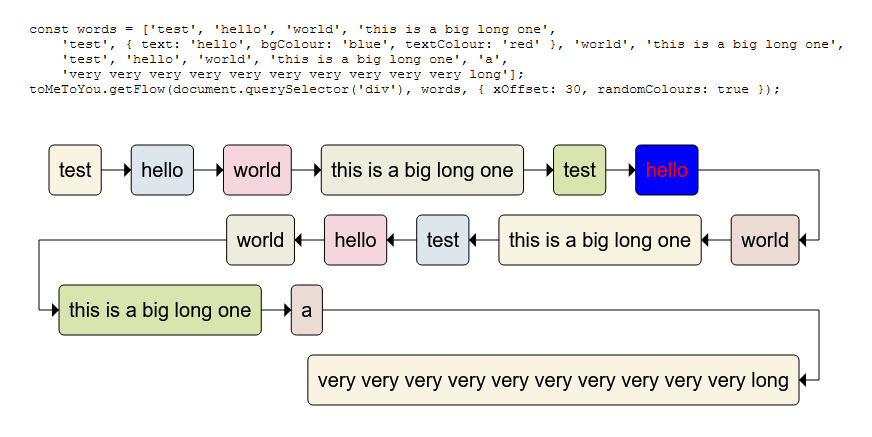
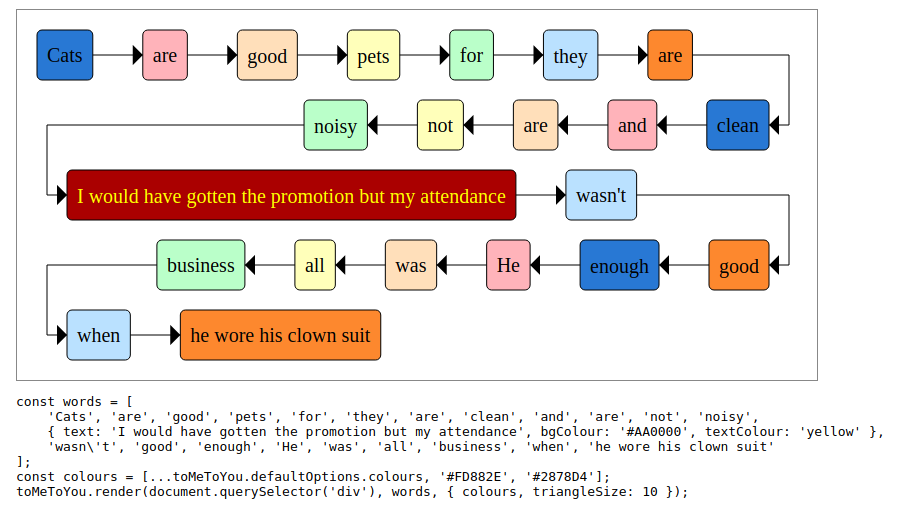
use nicer colours, update readme img

diff --git a/dist/bundle.js b/dist/bundle.js
@@ -5,12 +5,12 @@ const defaultOptions = {
     xOffset: 50, // space between boxes
     boxHeight: 30,
     radius: 5, // box border-radius
-    colours: ['#ebdbd4', '#f9f4e1', '#dee6ed', '#f6d6de', '#edecdd', '#d9e5ae'],
+    colours: ['#ffb3ba', '#ffdfba', '#ffffba', '#baffc9', '#bae1ff'],
     triangleSize: 7,
     leadingEdgeSize: 20, // how far out the new-line edge sticks
 };
 
-const getFlow = (container, items, opts = {}) => {
+const render = (container, items, opts = {}) => {
     if (!Array.isArray(items) || !items.length) {
         throw new Error('items needs to be an array of strings or objects');
     }
@@ -98,6 +98,8 @@ const getFlow = (container, items, opts = {}) => {
         }
     );
     drawArrows(entities, svg, { triangleSize, leadingEdgeSize });
+    const lastBox = entities.slice(-1)[0].rect.getBBox();
+    svg.setAttribute('height', lastBox.y + lastBox.height + margin);
     container.appendChild(svg);
     offscreen.remove();
 }
@@ -202,7 +204,8 @@ const getOffscreen = () => {
 };
 
 module.exports = {
-    getFlow
+    defaultOptions,
+    render
 };
 
 },{}]},{},[1])(1)

diff --git a/index.js b/index.js
@@ -4,12 +4,12 @@ const defaultOptions = {
     xOffset: 50, // space between boxes
     boxHeight: 30,
     radius: 5, // box border-radius
-    colours: ['#ebdbd4', '#f9f4e1', '#dee6ed', '#f6d6de', '#edecdd', '#d9e5ae'],
+    colours: ['#ffb3ba', '#ffdfba', '#ffffba', '#baffc9', '#bae1ff'],
     triangleSize: 7,
     leadingEdgeSize: 20, // how far out the new-line edge sticks
 };
 
-const getFlow = (container, items, opts = {}) => {
+const render = (container, items, opts = {}) => {
     if (!Array.isArray(items) || !items.length) {
         throw new Error('items needs to be an array of strings or objects');
     }
@@ -97,6 +97,8 @@ const getFlow = (container, items, opts = {}) => {
         }
     );
     drawArrows(entities, svg, { triangleSize, leadingEdgeSize });
+    const lastBox = entities.slice(-1)[0].rect.getBBox();
+    svg.setAttribute('height', lastBox.y + lastBox.height + margin);
     container.appendChild(svg);
     offscreen.remove();
 }
@@ -201,5 +203,6 @@ const getOffscreen = () => {
 };
 
 module.exports = {
-    getFlow
+    defaultOptions,
+    render
 };
